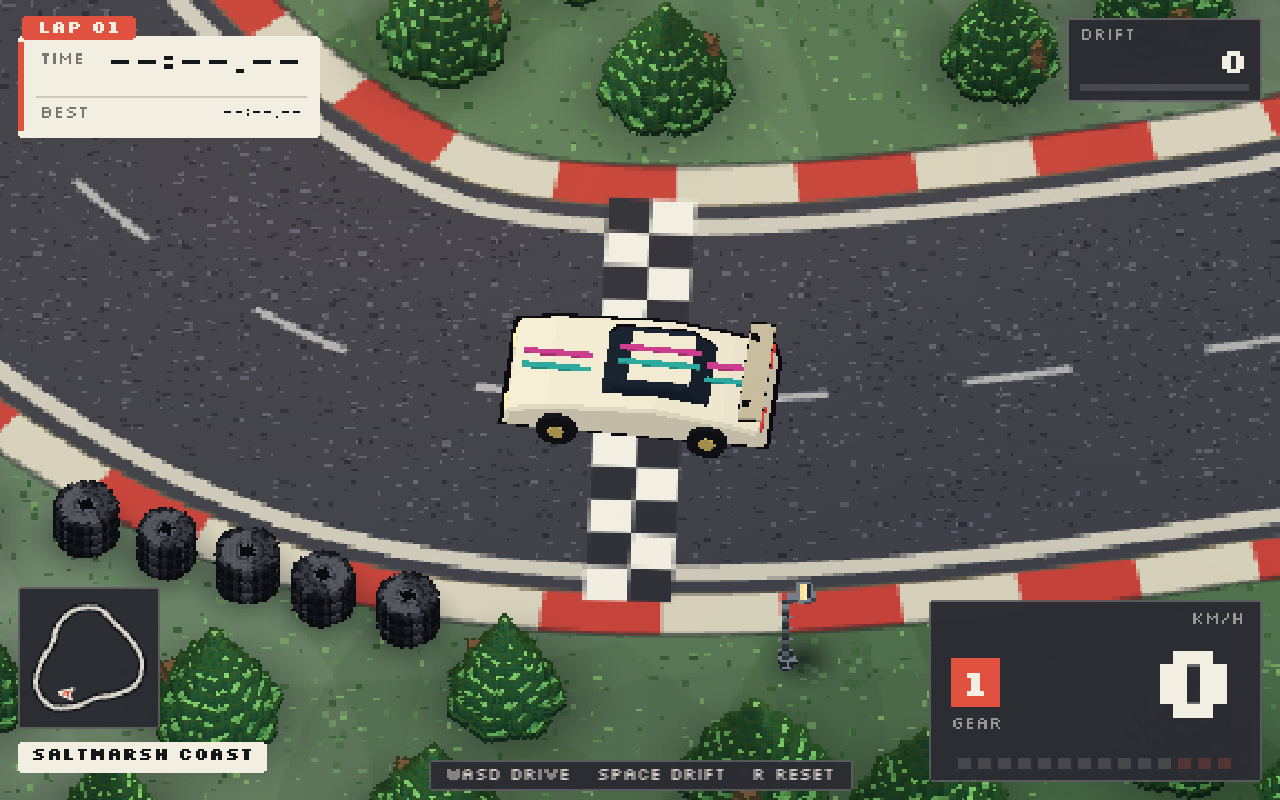
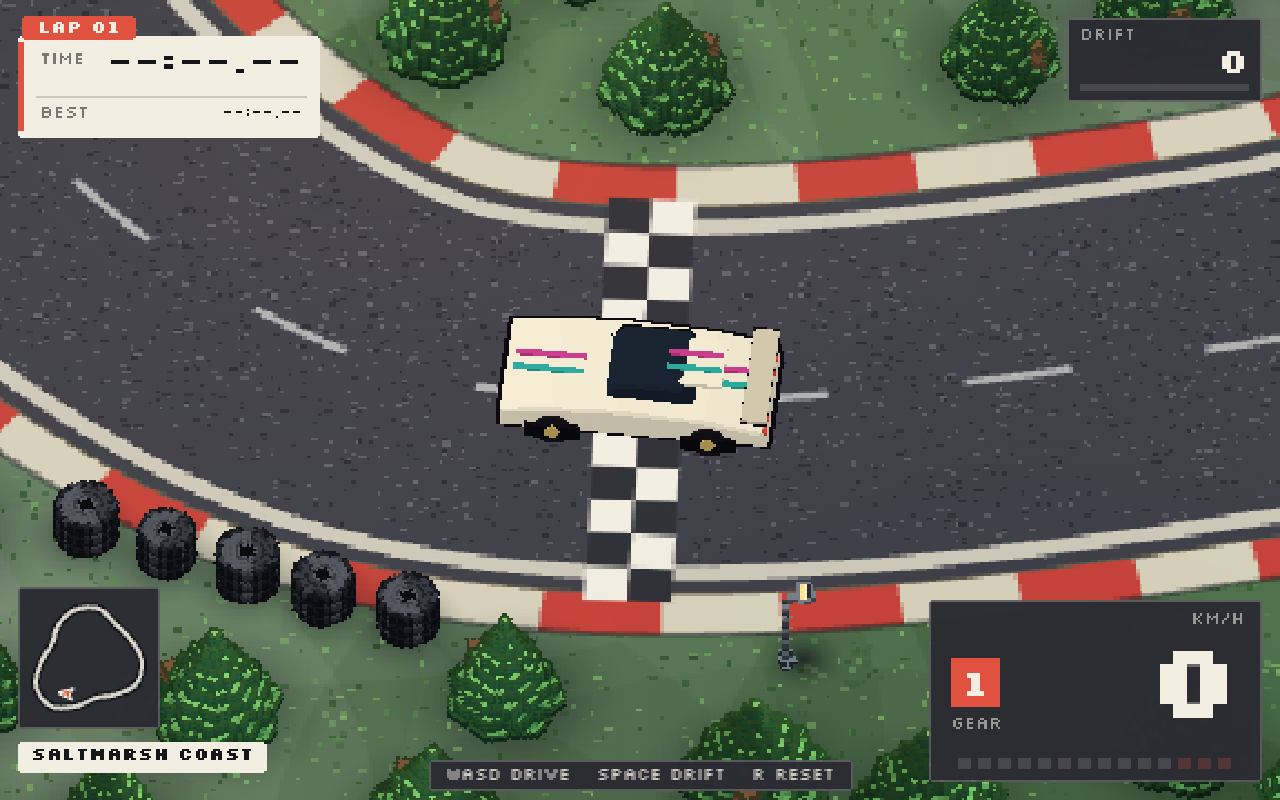
3D car reproportioned from the sheet: long nose, set-back cabin, short deck, arches

Changed region(s): [[0.375, 0.375, 0.625, 0.5625]]

diff --git a/src/carModel.ts b/src/carModel.ts
@@ -1,13 +1,13 @@
 import * as THREE from 'three';
 
 /**
- * The hero car as an actual 3D model: an extruded side profile (the 80s wedge),
- * a glass canopy, wheels, wing and the teal/magenta livery. Flat-shaded, with an
- * inverted-hull outline so it keeps the pixel-art edge.
+ * Hero car as a real 3D model, proportioned from the four-view sheet:
+ * long low nose, cabin set back, short rear deck, wide stance, big wing.
+ * Flat-shaded, with an inverted-hull outline for the pixel-art rim.
  */
 
 const CREAM = 0xe8e0c8;
-const CREAM_D = 0xbfb497;
+const CREAM_D = 0xc9bfa3;
 const GLASS = 0x17212e;
 const TYRE = 0x141419;
 const HUB = 0xc6aa5c;
@@ -15,15 +15,10 @@ const TEAL = 0x2aa197;
 const MAGENTA = 0xc23a86;
 const INK = 0x0c0a10;
 
-function mat(color: number) {
-  return new THREE.MeshLambertMaterial({ color, flatShading: true });
-}
+const mat = (c: number) => new THREE.MeshLambertMaterial({ color: c, flatShading: true });
 
 function outline(mesh: THREE.Mesh, k = 1.035) {
-  const m = new THREE.Mesh(
-    mesh.geometry,
-    new THREE.MeshBasicMaterial({ color: INK, side: THREE.BackSide }),
-  );
+  const m = new THREE.Mesh(mesh.geometry, new THREE.MeshBasicMaterial({ color: INK, side: THREE.BackSide }));
   m.scale.copy(mesh.scale).multiplyScalar(k);
   m.position.copy(mesh.position);
   m.rotation.copy(mesh.rotation);
@@ -31,100 +26,106 @@ function outline(mesh: THREE.Mesh, k = 1.035) {
   return m;
 }
 
+function extrude(shape: THREE.Shape, width: number, bevel = 0.05) {
+  const geo = new THREE.ExtrudeGeometry(shape, {
+    depth: width, bevelEnabled: true, bevelSize: bevel, bevelThickness: bevel, bevelSegments: 1,
+  });
+  geo.translate(0, 0, -width / 2);
+  geo.rotateY(Math.PI / 2);
+  return geo;
+}
+
 export function buildCarModel(): THREE.Group {
   const g = new THREE.Group();
 
-  // ---- side profile, extruded across the width: low nose, high tail
+  // ---- body: long nose, shoulder, short tucked tail
   const p = new THREE.Shape();
-  p.moveTo(-2.25, 0.16);          // nose bottom
-  p.lineTo(2.24, 0.20);           // tail bottom
-  p.lineTo(2.18, 0.54);           // tail top, tucked in
-  p.lineTo(1.55, 0.70);           // boot
-  p.lineTo(-0.35, 0.80);          // shoulder
-  p.lineTo(-1.55, 0.60);          // bonnet
-  p.lineTo(-2.15, 0.44);          // nose top
+  p.moveTo(-2.30, 0.12);
+  p.lineTo(2.30, 0.12);
+  p.lineTo(2.30, 0.44);
+  p.lineTo(1.42, 0.58);
+  p.lineTo(0.30, 0.64);
+  p.lineTo(-1.25, 0.56);
+  p.lineTo(-2.22, 0.38);
   p.closePath();
 
-  const bodyGeo = new THREE.ExtrudeGeometry(p, {
-    depth: 2.0, bevelEnabled: true, bevelSize: 0.06, bevelThickness: 0.06, bevelSegments: 1,
-  });
-  bodyGeo.translate(0, 0, -1.0);
-  bodyGeo.rotateY(Math.PI / 2);   // profile along Z, width along X
-  const body = new THREE.Mesh(bodyGeo, mat(CREAM));
-  body.position.y = 0.12;
+  const body = new THREE.Mesh(extrude(p, 2.06), mat(CREAM));
+  body.position.y = 0.20;
   g.add(outline(body), body);
 
-  // ---- canopy: a tapered glass box sitting on the shoulder
+  // ---- cabin: low bubble set back over the rear axle
   const c = new THREE.Shape();
-  c.moveTo(-1.05, 0.0);          // windscreen base
-  c.lineTo(0.98, 0.0);           // rear glass base
-  c.lineTo(0.72, 0.40);          // rear roofline
-  c.lineTo(-0.52, 0.40);         // front roofline (raked)
+  c.moveTo(-0.10, 0.0);
+  c.lineTo(1.45, 0.0);
+  c.lineTo(1.20, 0.34);
+  c.lineTo(0.10, 0.34);
   c.closePath();
-  const canopyGeo = new THREE.ExtrudeGeometry(c, {
-    depth: 1.30, bevelEnabled: true, bevelSize: 0.05, bevelThickness: 0.05, bevelSegments: 1,
-  });
-  canopyGeo.translate(0, 0, -0.65);
-  canopyGeo.rotateY(Math.PI / 2);
-  const canopy = new THREE.Mesh(canopyGeo, mat(GLASS));
-  canopy.position.set(0, 0.74, 0.30);
+  const canopy = new THREE.Mesh(extrude(c, 1.34, 0.045), mat(GLASS));
+  canopy.position.set(0, 0.80, 0.90);
   g.add(outline(canopy, 1.03), canopy);
 
-  // ---- roof panel, so the canopy reads as glass with a painted roof
-  const roof = new THREE.Mesh(new THREE.BoxGeometry(1.10, 0.07, 1.10), mat(CREAM));
-  roof.position.set(0, 1.16, 0.38);
+  // ---- painted roof panel
+  const roof = new THREE.Mesh(new THREE.BoxGeometry(1.06, 0.07, 1.05), mat(CREAM));
+  roof.position.set(0, 1.15, 0.98);
   g.add(roof);
 
-  // ---- livery: two stripes over the body and the roof
-  for (const [x, colour] of [[-0.16, TEAL], [0.16, MAGENTA]] as [number, number][]) {
-    const stripe = new THREE.Mesh(new THREE.BoxGeometry(0.12, 0.035, 4.1), mat(colour));
-    stripe.position.set(x, 0.9, 0);
-    g.add(stripe);
-    const roofStripe = new THREE.Mesh(new THREE.BoxGeometry(0.12, 0.02, 1.45), mat(colour));
-    roofStripe.position.set(x, 1.22, 0.35);
-    g.add(roofStripe);
+  // ---- livery: twin stripes over bonnet, roof and deck
+  for (const [x, colour] of [[-0.17, TEAL], [0.17, MAGENTA]] as [number, number][]) {
+    const s1 = new THREE.Mesh(new THREE.BoxGeometry(0.12, 0.03, 4.3), mat(colour));
+    s1.position.set(x, 0.84, -0.05);
+    g.add(s1);
+    const s2 = new THREE.Mesh(new THREE.BoxGeometry(0.12, 0.02, 1.0), mat(colour));
+    s2.position.set(x, 1.19, 0.98);
+    g.add(s2);
   }
 
-  // ---- wheels: black cylinders with a gold hub disc
-  const wheelGeo = new THREE.CylinderGeometry(0.36, 0.36, 0.30, 12);
+  // ---- wheels + arches
+  const wheelGeo = new THREE.CylinderGeometry(0.34, 0.34, 0.30, 12);
   wheelGeo.rotateZ(Math.PI / 2);
-  const hubGeo = new THREE.CylinderGeometry(0.15, 0.15, 0.32, 8);
+  const hubGeo = new THREE.CylinderGeometry(0.14, 0.14, 0.32, 8);
   hubGeo.rotateZ(Math.PI / 2);
-  for (const z of [-1.35, 1.3]) {
-    for (const x of [-1.02, 1.02]) {
+  const archGeo = new THREE.BoxGeometry(0.34, 0.30, 0.96);
+  for (const z of [-1.42, 1.32]) {
+    for (const x of [-1.00, 1.00]) {
+      const arch = new THREE.Mesh(archGeo, mat(INK));
+      arch.position.set(x * 1.0, 0.30, z);
+      g.add(arch);
       const w = new THREE.Mesh(wheelGeo, mat(TYRE));
-      w.position.set(x, 0.36, z);
-      g.add(outline(w, 1.02), w);
+      w.position.set(x, 0.34, z);
+      g.add(w);
       const hub = new THREE.Mesh(hubGeo, mat(HUB));
-      hub.position.set(x * 1.02, 0.36, z);
+      hub.position.set(x * 1.03, 0.34, z);
       g.add(hub);
     }
   }
 
   // ---- rear wing on two stalks
-  const wing = new THREE.Mesh(new THREE.BoxGeometry(2.15, 0.06, 0.42), mat(CREAM_D));
-  wing.position.set(0, 1.02, 2.05);
+  const wing = new THREE.Mesh(new THREE.BoxGeometry(2.12, 0.06, 0.44), mat(CREAM_D));
+  wing.position.set(0, 0.92, 2.12);
   g.add(outline(wing), wing);
-  for (const x of [-0.75, 0.75]) {
-    const stalk = new THREE.Mesh(new THREE.BoxGeometry(0.12, 0.34, 0.14), mat(INK));
-    stalk.position.set(x, 0.92, 1.95);
+  for (const x of [-0.78, 0.78]) {
+    const stalk = new THREE.Mesh(new THREE.BoxGeometry(0.10, 0.26, 0.12), mat(INK));
+    stalk.position.set(x, 0.76, 2.08);
     g.add(stalk);
   }
 
-  // ---- lights
-  for (const x of [-0.72, 0.72]) {
-    const hl = new THREE.Mesh(new THREE.BoxGeometry(0.42, 0.12, 0.06), mat(0xffe9a8));
-    hl.position.set(x, 0.5, -2.27);
+  // ---- lights + grille + exhausts
+  for (const x of [-0.70, 0.70]) {
+    const hl = new THREE.Mesh(new THREE.BoxGeometry(0.44, 0.10, 0.05), mat(0xffe9a8));
+    hl.position.set(x, 0.46, -2.31);
     g.add(hl);
-    const tl = new THREE.Mesh(new THREE.BoxGeometry(0.5, 0.12, 0.06), mat(0xd93b34));
-    tl.position.set(x, 0.62, 2.24);
+    const tl = new THREE.Mesh(new THREE.BoxGeometry(0.52, 0.10, 0.05), mat(0xd93b34));
+    tl.position.set(x, 0.52, 2.30);
     g.add(tl);
   }
-
-  // ---- grille
-  const grille = new THREE.Mesh(new THREE.BoxGeometry(1.0, 0.14, 0.06), mat(INK));
-  grille.position.set(0, 0.34, -2.26);
+  const grille = new THREE.Mesh(new THREE.BoxGeometry(1.06, 0.12, 0.05), mat(INK));
+  grille.position.set(0, 0.30, -2.30);
   g.add(grille);
+  for (const x of [-0.30, 0.30]) {
+    const ex = new THREE.Mesh(new THREE.BoxGeometry(0.16, 0.10, 0.06), mat(0x8f96a2));
+    ex.position.set(x, 0.26, 2.32);
+    g.add(ex);
+  }
 
   return g;
 }
